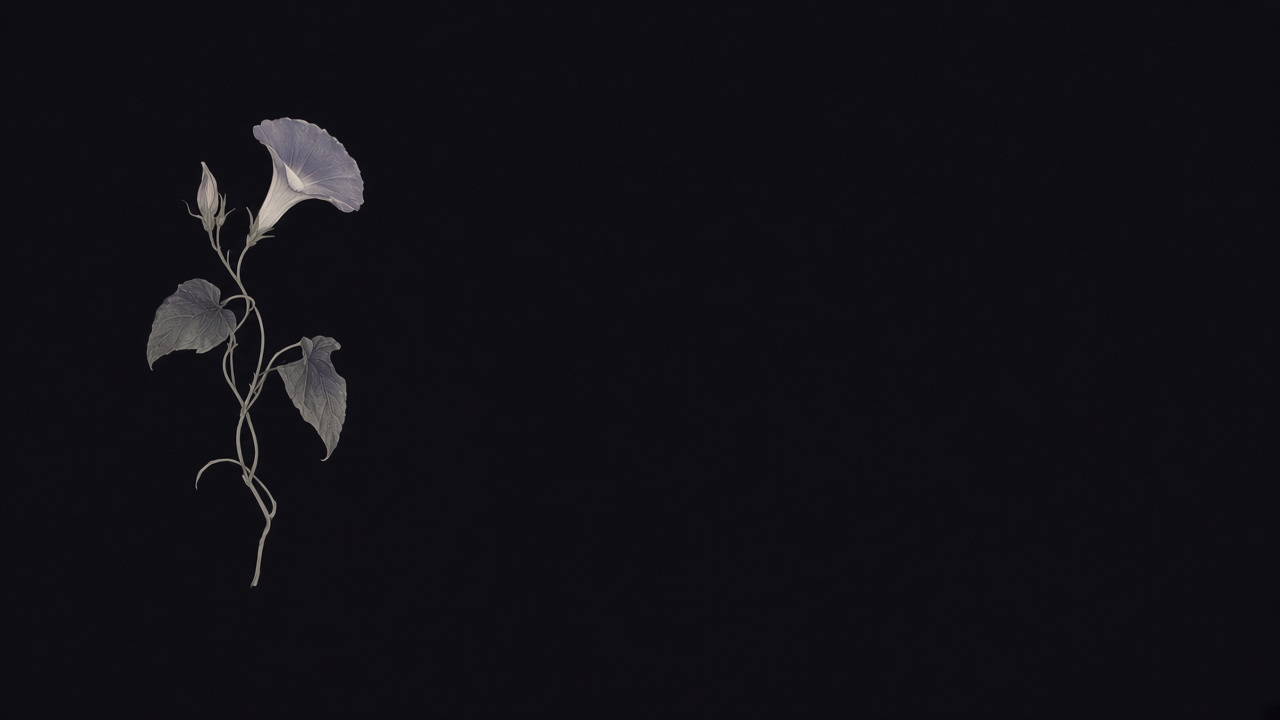
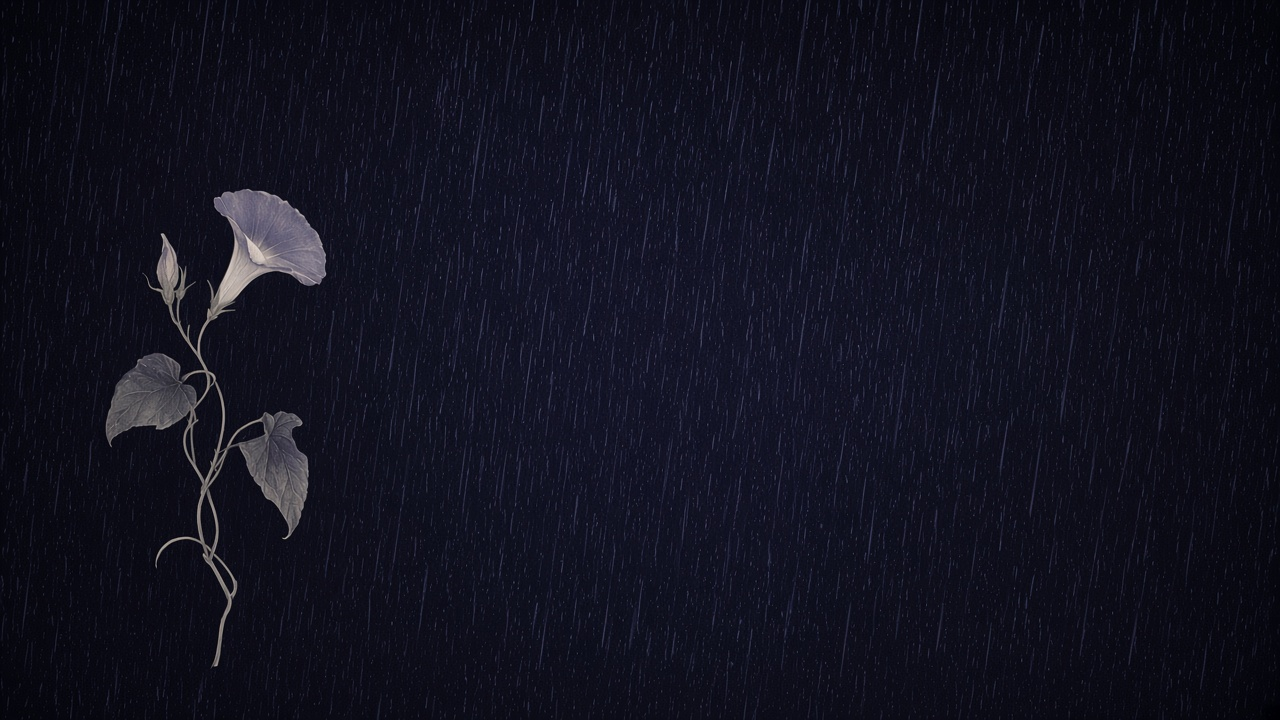
主页改回雨夜的调子，横幅加上雨。

diff --git a/README.md b/README.md
@@ -1,33 +1,32 @@
-<picture>
-  <source media="(prefers-color-scheme: dark)" srcset="assets/github-banner.jpg">
-  <source media="(prefers-color-scheme: light)" srcset="assets/github-banner.jpg">
+<p align="center">
   <img alt="" src="assets/github-banner.jpg" width="100%" />
-</picture>
+</p>
+
+<p align="center">
+  <sub>雨音だけが聞こえる</sub>
+</p>
 
 ### chuchu
 
-Arch · niri · 笔记和小脚本。这里不热闹，只是自己跑通过的东西。
+夜里屏幕是亮的。外面在下雨。仓库里是装系统、救系统、双系统的笔记，写得短，能跑通就留。
 
-站点 [`chuchuwansui.top`](https://chuchuwansui.top)（邀请码） · 邮件 `shenchuchu91@gmail.com`
-
-<br>
+[`chuchuwansui.top`](https://chuchuwansui.top) · 进站要邀请码  
+`shenchuchu91@gmail.com`
 
 ```text
-OS     Arch Linux
-WM     niri
-Shell  fish · starship
-编辑   neovim · kitty
+[ ok ] 雨还在下
+[ ok ] Arch · niri
+[ ok ] fish · neovim · kitty
+[warn] 动磁盘之前先备份
 ```
 
-<br>
-
-#### 仓库
+---
 
 **Windows / 双系统**
 
 | | |
 | :--- | :--- |
-| [Linux-DualBoot-Steam-Guide](https://github.com/shenchuchu91-hub/Linux-DualBoot-Steam-Guide) | Win + Arch 双系统、Steam |
+| [Linux-DualBoot-Steam-Guide](https://github.com/shenchuchu91-hub/Linux-DualBoot-Steam-Guide) | Win + Arch，Steam |
 | [moe-game-launcher](https://github.com/shenchuchu91-hub/moe-game-launcher) | 游戏启动脚本 |
 
 **Linux**
@@ -42,19 +41,17 @@ Shell  fish · starship
 
 | | |
 | :--- | :--- |
-| [Arch-Linux-Guide](https://github.com/shenchuchu91-hub/Arch-Linux-Guide) | Arch 笔记 |
+| [Arch-Linux-Guide](https://github.com/shenchuchu91-hub/Arch-Linux-Guide) | 安装笔记 |
 | [Arch-Disaster-Recovery](https://github.com/shenchuchu91-hub/Arch-Disaster-Recovery) | 系统坏了怎么修 |
-| [Nyarch-Linux-Guide](https://github.com/shenchuchu91-hub/Nyarch-Linux-Guide) | Nyarch 说明 |
-| [SCPSL-ArchLinux-Optimization](https://github.com/shenchuchu91-hub/SCPSL-ArchLinux-Optimization) | SCPSL 在 Arch 上的设置 |
+| [Nyarch-Linux-Guide](https://github.com/shenchuchu91-hub/Nyarch-Linux-Guide) | Nyarch |
+| [SCPSL-ArchLinux-Optimization](https://github.com/shenchuchu91-hub/SCPSL-ArchLinux-Optimization) | SCPSL 在 Arch 上 |
 
 **在学**
 
 | | |
 | :--- | :--- |
-| [backend-learning](https://github.com/shenchuchu91-hub/backend-learning) | Python / 后端练习 |
-
-<br>
+| [backend-learning](https://github.com/shenchuchu91-hub/backend-learning) | C / Python |
 
 <p align="center">
-<sub>花没开完 · 雨还在下</sub>
+  <sub>雨还在下 · 屏幕常亮</sub>
 </p>
